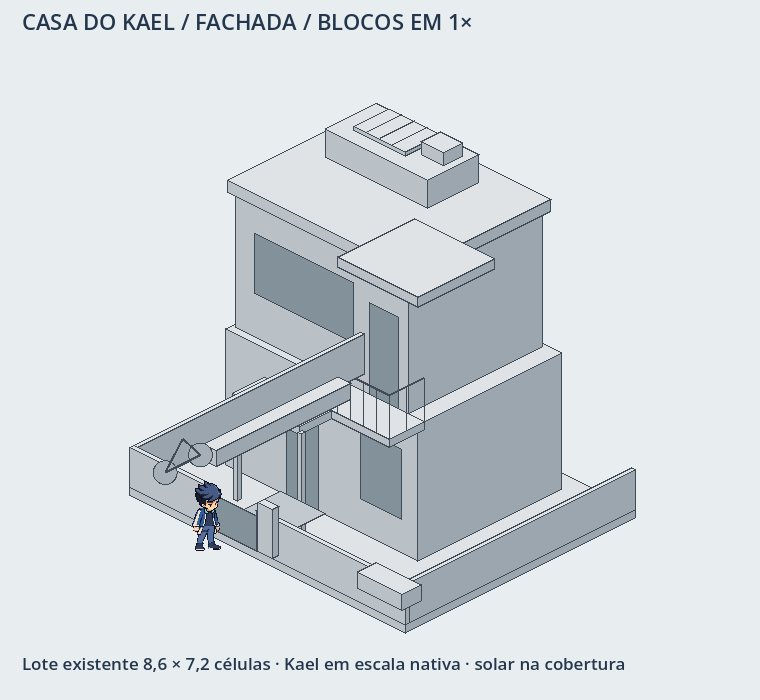
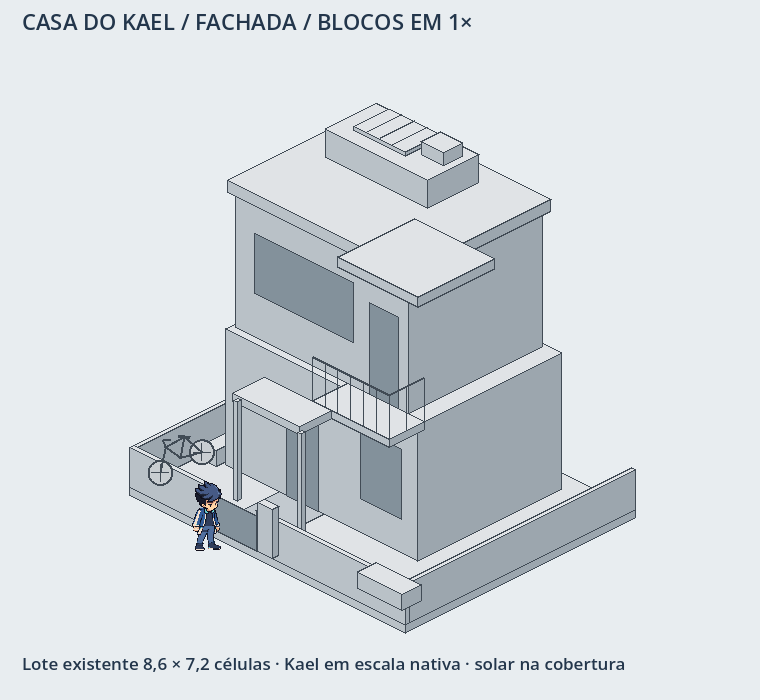
Casa do Kael v2: corrigir sobreposições na entrada

Changed region(s): [[0.1816, 0.48, 0.4842, 0.69], [0.3934, 0.72, 0.4237, 0.75]]

diff --git a/art/casa-kael-v2/README.md b/art/casa-kael-v2/README.md
@@ -20,3 +20,7 @@ Para reproduzir a partir da raiz do repositório no PowerShell
 ```
 
 O overlay é uma comparação de proporções em escala uniforme. O concept tem outra câmera e não permite um alinhamento perfeito de todas as quinas com a projeção do jogo.
+
+## Revisão da entrada
+
+Corrigida a oclusão do muro e do canteiro laterais, antes desenhados sobre a marquise. O caminho agora é desenhado antes do prédio. Bicicleta refeita com quadro e rodas apoiados na cota do jardim. Fachada e comparativos foram recapturados no Godot. Permanece na etapa de aprovação de volumes.
